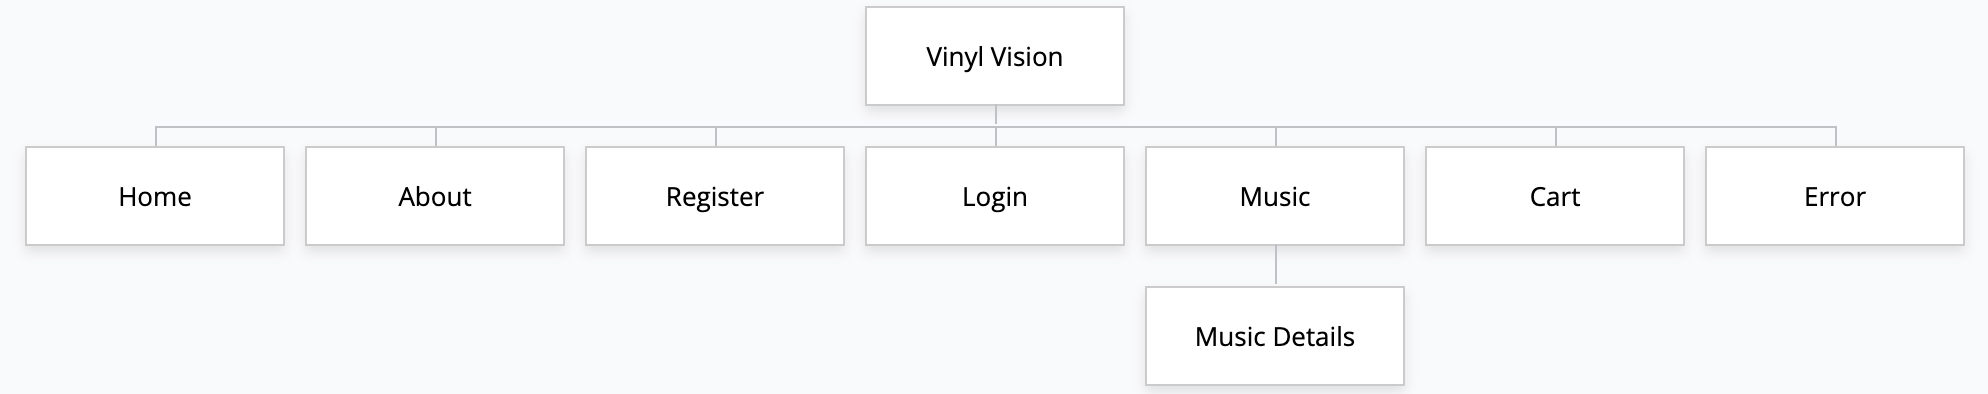
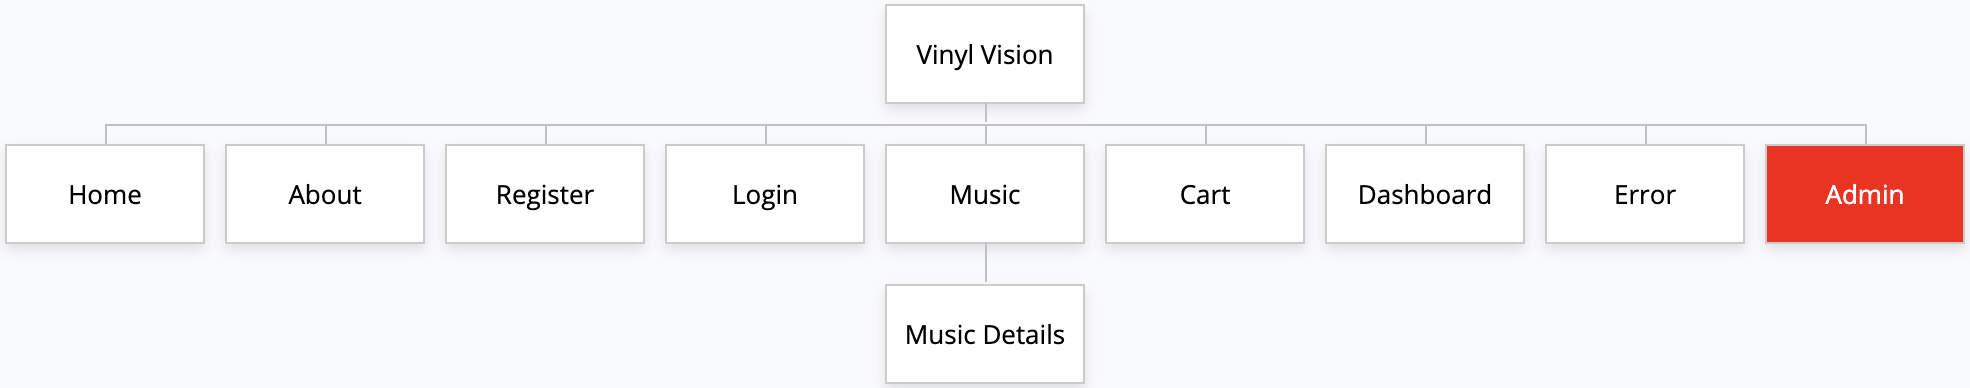
Implement Sort filter for Music query

diff --git a/frontend/src/components/features/MusicHeader/index.tsx b/frontend/src/components/features/MusicHeader/index.tsx
@@ -1,13 +1,71 @@
+import { useEffect, useState, type ChangeEvent, type FormEvent } from "react";
 import Heading1 from "../../common/Heading1";
 import * as styles from "./styles.css";
+import Button from "../../common/Button";
+import { useSearchParams } from "react-router-dom";
 
 type Props = {};
 
 const MusicHeader = ({}: Props) => {
+  const [showFilter, setShowFilter] = useState(false);
+  const [filterValues, setFilterValues] = useState({
+    sort: "",
+  });
+  const [searchParams, setSearchParams] = useSearchParams();
+
+  useEffect(() => {
+    // Match the sort values on load
+    const sortByParam = searchParams.get("sortBy") || "title";
+    const sortOrderParam = searchParams.get("order") || "asc";
+    setFilterValues({
+      ...filterValues,
+      sort: `${sortByParam}:${sortOrderParam}`,
+    });
+  }, []);
+
+  const handleSortChange = (e: ChangeEvent<HTMLSelectElement>) => {
+    const value = e.target.value; // e.g. "title:asc"
+    setFilterValues({
+      ...filterValues,
+      sort: value,
+    });
+  };
+
+  const handleSubmit = (e: FormEvent<HTMLFormElement>) => {
+    e.preventDefault();
+    const [sortBy, order] = filterValues.sort.split(":");
+    setSearchParams({ sortBy, order });
+  };
+
   return (
     <header className={styles.header}>
-      <Heading1 className={styles.title}>Music</Heading1>
-      <button className={styles.filter}>Filter</button>
+      <div className={styles.main}>
+        <Heading1>Music</Heading1>
+        <button
+          className={styles.filter}
+          onClick={() => setShowFilter(!showFilter)}
+        >
+          Filter
+        </button>
+      </div>
+      <form
+        className={`${styles.form} ${showFilter ? styles.show : ""}`}
+        onSubmit={handleSubmit}
+      >
+        <input placeholder="Title" />
+        <input placeholder="Artist" />
+        <input placeholder="Genre" />
+        Sort
+        <select onChange={handleSortChange} value={filterValues.sort}>
+          <option value="title:asc">Title: Ascending</option>
+          <option value="title:desc">Title: Descending</option>
+          <option value="release_date:asc">Release Date: Ascending</option>
+          <option value="release_date:desc">Release Date: Descending</option>
+          <option value="length:asc">Length: Ascending</option>
+          <option value="length:desc">Length: Descending</option>
+        </select>
+        <Button>GO</Button>
+      </form>
     </header>
   );
 };

diff --git a/frontend/src/components/features/Spotlight/index.tsx b/frontend/src/components/features/Spotlight/index.tsx
@@ -14,7 +14,7 @@ const mockData = [
     release_date: "release_date3",
     length: 200,
     format: "format3",
-    price: 2000,
+    price_aud: 100,
   },
   {
     id: "id2",
@@ -26,7 +26,7 @@ const mockData = [
     release_date: "release_date2",
     length: 75,
     format: "format2",
-    price: 2000,
+    price_aud: 350,
   },
   {
     id: "id",
@@ -38,7 +38,7 @@ const mockData = [
     release_date: "release_date",
     length: 65,
     format: "format",
-    price: 2000,
+    price_aud: 499,
   },
   {
     id: "id6",
@@ -50,7 +50,7 @@ const mockData = [
     release_date: "release_date6",
     length: 150,
     format: "format6",
-    price: 2000,
+    price_aud: 2000,
   },
   {
     id: "id8",
@@ -62,7 +62,7 @@ const mockData = [
     release_date: "release_date8",
     length: 250,
     format: "format8",
-    price: 2000,
+    price_aud: 2000,
   },
   {
     id: "id7",
@@ -74,7 +74,7 @@ const mockData = [
     release_date: "release_date7",
     length: 55,
     format: "format7",
-    price: 2000,
+    price_aud: 2000,
   },
 ];
 

diff --git a/frontend/src/components/features/MusicCard/index.tsx b/frontend/src/components/features/MusicCard/index.tsx
@@ -4,7 +4,10 @@ import type { MusicItemType } from "../../../../../shared/types";
 import Button from "../../common/Button";
 import { Link } from "react-router-dom";
 import { useCart } from "../../../contexts/CartContext";
-import { convertPriceToCurrency } from "../../../utils/helpers";
+import {
+  convertPriceToCurrency,
+  convertSecondsToHHMMSS,
+} from "../../../utils/helpers";
 
 type Props = {
   data: MusicItemType;
@@ -35,7 +38,7 @@ const MusicCard = ({ data, className }: Props) => {
         <p className={styles.detail}>{data.description}</p>
         <p className={styles.detail}>{data.genre}</p>
         <p className={styles.detail}>{data.release_date}</p>
-        <p className={styles.detail}>{data.length}</p>
+        <p className={styles.detail}>{convertSecondsToHHMMSS(data.length)}</p>
         <Link to={`/music/${data.id}`} className={styles.expand}>
           + expand details
         </Link>

diff --git a/frontend/src/pages/MusicDetail/index.tsx b/frontend/src/pages/MusicDetail/index.tsx
@@ -7,7 +7,10 @@ import Heading1 from "../../components/common/Heading1";
 import * as styles from "./styles.css";
 import Button from "../../components/common/Button";
 import { useCart } from "../../contexts/CartContext";
-import { convertPriceToCurrency } from "../../utils/helpers";
+import {
+  convertPriceToCurrency,
+  convertSecondsToHHMMSS,
+} from "../../utils/helpers";
 import { ScaleLoader } from "react-spinners";
 
 type Props = {};
@@ -58,7 +61,7 @@ const MusicDetail = ({}: Props) => {
             <p>Artist: {data.artist}</p>
             <p>Genre: {data.genre}</p>
             <p>Release Date: {data.release_date}</p>
-            <p>Track Length: {data.length}</p>
+            <p>Track Length: {convertSecondsToHHMMSS(data.length)}</p>
             <p className={styles.price}>
               {convertPriceToCurrency(data.price_aud)}
             </p>

diff --git a/frontend/src/components/features/MusicList/index.tsx b/frontend/src/components/features/MusicList/index.tsx
@@ -5,13 +5,23 @@ import { getAllMusic } from "../../../api/music";
 import { useQuery } from "@tanstack/react-query";
 import { ScaleLoader } from "react-spinners";
 import Button from "../../common/Button";
+import { useSearchParams } from "react-router-dom";
+import type { SortOptions } from "../../../../../shared/types";
 
 type Props = {};
 
 const MusicList = ({}: Props) => {
+  const [searchParams] = useSearchParams();
+  const sortBy =
+    (searchParams.get("sortBy") as SortOptions["sortBy"]) || undefined;
+  const order =
+    (searchParams.get("order") as SortOptions["order"]) || undefined;
+
   const { data, isPending, isError, refetch } = useQuery({
-    queryKey: ["music"],
-    queryFn: getAllMusic,
+    queryKey: ["music", sortBy, order],
+    queryFn: () => {
+      return getAllMusic(sortBy, order);
+    },
     retry: 2,
   });
 

diff --git a/backend/src/services/music.service.ts b/backend/src/services/music.service.ts
@@ -1,13 +1,17 @@
-import type { MusicItemType } from "../../../shared/types/music.js";
+import type {
+  MusicItemType,
+  SortOptions,
+} from "../../../shared/types/music.js";
 import { db, mapDocument } from "../utilities/database.util.js";
 
-export const findAllMusic = async (): Promise<MusicItemType[]> => {
-  const musicRef = db.collection("music");
-
+export const findAllMusic = async (
+  field: SortOptions["sortBy"] = "release_date",
+  direction: SortOptions["order"] = "asc"
+): Promise<MusicItemType[]> => {
+  const musicRef = db.collection("music").orderBy(field, direction);
   const snapshot = await musicRef.get();
 
   const music: MusicItemType[] = [];
-
   snapshot.forEach((doc) => music.push(mapDocument<MusicItemType>(doc)));
 
   return music;

diff --git a/backend/src/controllers/music.controller.ts b/backend/src/controllers/music.controller.ts
@@ -2,13 +2,18 @@ import { Request, Response, NextFunction } from "express";
 import ApiError from "../utilities/ApiError.js";
 import debug from "debug";
 import { findAllMusic, findOneMusicById } from "../services/music.service.js";
+import type { SortOptions } from "../../../shared/types/music.js";
 
 const debugMusic = debug("app:music");
 
 const MusicController = {
   async getAll(req: Request, res: Response, next: NextFunction) {
     try {
-      const music = await findAllMusic();
+      const { sortBy, order } = req.query;
+      const music = await findAllMusic(
+        sortBy as SortOptions["sortBy"],
+        order as SortOptions["order"]
+      );
       res.send(music);
     } catch (error) {
       return next(

diff --git a/frontend/src/components/features/MusicHeader/styles.css.ts b/frontend/src/components/features/MusicHeader/styles.css.ts
@@ -1,13 +1,14 @@
 import { style } from "@vanilla-extract/css";
 
 export const header = style({
-  display: "flex",
-  justifyContent: "space-between",
-  padding: "2rem",
   borderBottom: "1px solid black",
 });
 
-export const title = style({});
+export const main = style({
+  display: "flex",
+  justifyContent: "space-between",
+  padding: "2rem",
+});
 
 export const filter = style({
   appearance: "none",
@@ -20,4 +21,16 @@ export const filter = style({
       textShadow: "1px 0 0 black",
     },
   },
+});
+
+export const form = style({
+  display: "none",
+  padding: "2rem",
+  paddingTop: "0",
+  flexDirection: "column",
+  justifyContent: "center",
+});
+
+export const show = style({
+  display: "flex",
 });

diff --git a/frontend/src/api/music.ts b/frontend/src/api/music.ts
@@ -1,9 +1,12 @@
-import type { MusicItemType } from "../../../shared/types";
+import type { MusicItemType, SortOptions } from "../../../shared/types";
 import { api, handleApiError } from "./index";
 
-export const getAllMusic = async () => {
+export const getAllMusic = async (
+  sortBy: SortOptions["sortBy"] | undefined | null = "release_date",
+  order: SortOptions["order"] | undefined | null = "asc"
+) => {
   try {
-    const res = await api.get("/music");
+    const res = await api.get(`/music?sortBy=${sortBy}&order=${order}`);
     return res.data as MusicItemType[];
   } catch (error) {
     handleApiError(error);

diff --git a/frontend/src/utils/helpers.ts b/frontend/src/utils/helpers.ts
@@ -4,3 +4,16 @@ export const convertPriceToCurrency = (price: number) => {
     currency: "AUD",
   });
 };
+
+export const convertSecondsToHHMMSS = (totalSeconds: number) => {
+  const hours = Math.floor(totalSeconds / 3600);
+  const minutes = Math.floor((totalSeconds % 3600) / 60);
+  const seconds = totalSeconds % 60;
+
+  // Pad with leading zeros if needed
+  const hh = String(hours).padStart(2, "0");
+  const mm = String(minutes).padStart(2, "0");
+  const ss = String(seconds).padStart(2, "0");
+
+  return hh === "00" ? `${mm}:${ss}` : `${hh}:${mm}:${ss}`;
+};

diff --git a/frontend/src/components/features/Spotlight/styles.css.ts b/frontend/src/components/features/Spotlight/styles.css.ts
@@ -1,8 +1,6 @@
 import { style } from "@vanilla-extract/css";
 
-export const spotlight = style({
-  
-});
+export const spotlight = style({});
 
 export const title = style({
   width: "100%",
@@ -20,10 +18,7 @@ export const list = style({
 });
 
 export const item = style({
-  width: "380px",
-  minWidth: "380px",
-  height: "380px",
-  minHeight: "380px",
+  minWidth: "20rem",
   border: "1px solid black",
   background: "grey",
 });

diff --git a/backend/src/utilities/database.util.ts b/backend/src/utilities/database.util.ts
@@ -31,13 +31,11 @@ const connectDatabase = async () => {
   }
 };
 
-export const mapDocument = <T>(
-  document: admin.firestore.DocumentSnapshot
-): T => {
+const mapDocument = <T>(document: admin.firestore.DocumentSnapshot): T => {
   return {
     ...document.data(),
     id: document.id,
   } as T;
 };
 
-export { connectDatabase, db, bucket };
+export { connectDatabase, db, bucket, mapDocument };
